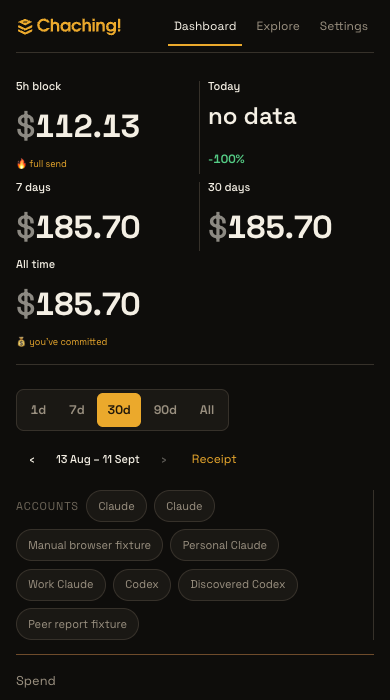
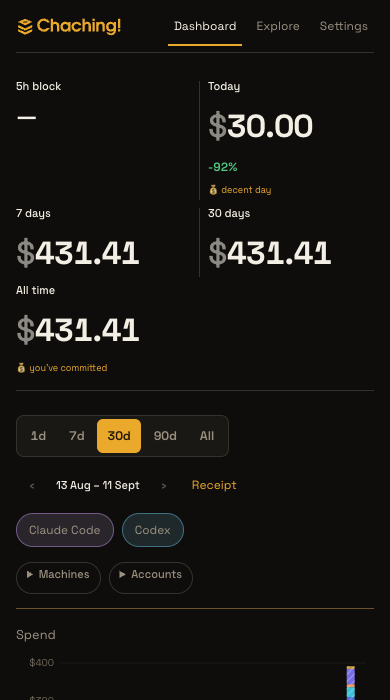
Compact scope controls and finalize the dashboard review inventory

diff --git a/src/lib/components/DataSettings.svelte b/src/lib/components/DataSettings.svelte
@@ -1,29 +1,7 @@
 <script lang="ts">
 	import type { RollupSnapshot } from '$lib/types';
 	import { fmtDay, int } from '$lib/format';
-	import { isCalendarDay } from '$lib/core/view-model';
-	import Button from './ds/Button.svelte';
-
-	let { snapshot, cutoverTs = null, onSave }: {
-		snapshot: RollupSnapshot; cutoverTs: number | null;
-		onSave: (value: number | null) => Promise<void>;
-	} = $props();
-	let date = $state('');
-	let saving = $state(false);
-	let error = $state('');
-	let saved = $state(false);
-	$effect(() => { date = cutoverTs === null ? '' : new Date(cutoverTs).toISOString().slice(0, 10); });
-
-	async function save(event: SubmitEvent) {
-		event.preventDefault();
-		if (date && !isCalendarDay(date)) { error = 'Enter a valid date.'; return; }
-		saving = true;
-		error = '';
-		saved = false;
-		try { await onSave(date ? Date.parse(date + 'T00:00:00Z') : null); saved = true; }
-		catch (cause) { error = cause instanceof Error ? cause.message : 'Could not save the cutover date. Try again.'; }
-		finally { saving = false; }
-	}
+	let { snapshot }: { snapshot: RollupSnapshot } = $props();
 </script>
 
 <section aria-labelledby="data-heading">
@@ -36,25 +14,14 @@
 	</dl>
 	<p>Costs are estimated from token counts and model prices. Claude reasoning tokens are included in output.</p>
 	{#if snapshot.unknownPriceModels.length}<p class="warning">Unpriced models, excluded from cost: {snapshot.unknownPriceModels.join(', ')}</p>{/if}
-	<form onsubmit={save} aria-label="Work/personal cutover">
-		<label for="cutover">Work/personal cutover</label>
-		<small>Optional. Leave blank to clear.</small>
-		<div class="edit"><input id="cutover" type="date" bind:value={date} oninput={() => { saved = false; }} disabled={saving}/><Button type="submit" variant="secondary" disabled={saving}>{saving ? 'Saving…' : 'Save cutover'}</Button></div>
-		{#if error}<p role="alert">{error}</p>{/if}
-		{#if saved}<p role="status">Saved</p>{/if}
-	</form>
+
 </section>
 
 <style>
 	section {margin:20px 0;padding:20px;border:1px solid var(--border);border-radius:var(--radius);background:var(--surface-1)}
 	h3 {margin:0 0 16px;font-size:16px}
 	dl {display:grid;grid-template-columns:repeat(auto-fit,minmax(140px,1fr));gap:16px;margin:0}
-	dt,small,p {color:var(--text-muted);font-size:12px}
+	dt,p {color:var(--text-muted);font-size:12px}
 	dd {margin:5px 0 0;font-variant-numeric:tabular-nums}
 	.warning {color:var(--warn);overflow-wrap:anywhere}
-	form {margin-top:20px;display:grid;gap:8px}
-	.edit {display:flex;gap:8px;flex-wrap:wrap}
-	input {min-width:0;max-width:100%;padding:8px;color:var(--text);background:var(--surface-2);border:1px solid var(--border);border-radius:var(--radius-sm);font:inherit;color-scheme:dark}
-	input:focus-visible {outline:2px solid var(--accent);outline-offset:2px}
-	[role=alert] {color:var(--bad)}
 </style>

diff --git a/src/lib/components/PoolFilters.svelte b/src/lib/components/PoolFilters.svelte
@@ -25,8 +25,9 @@
 {#if machines.length > 1 || accounts.length > 1}
 	<div class="pool-filters" aria-label="Pool filters">
 		{#if machines.length > 1}
-			<div class="filter-group" aria-label="Machine filter">
-				<span class="filter-label">machines</span>
+			<details name="scope-filters">
+				<summary>Machines{machineFilter.size ? ` · ${machineFilter.size}` : ''}</summary>
+				<div class="filter-group" aria-label="Machine filter">
 				{#each machines as machine (machine.id)}
 					<button
 						type="button"
@@ -37,12 +38,14 @@
 						{machine.name}
 					</button>
 				{/each}
-			</div>
+				</div>
+			</details>
 		{/if}
 
 		{#if accounts.length > 1}
-			<div class="filter-group" aria-label="Account filter">
-				<span class="filter-label">accounts</span>
+			<details name="scope-filters">
+				<summary>Accounts{accountFilter.size ? ` · ${accountFilter.size}` : ''}</summary>
+				<div class="filter-group" aria-label="Account filter">
 				{#each accounts as subscription (subscription.id)}
 					<button
 						type="button"
@@ -53,7 +56,8 @@
 						{subscription.name}
 					</button>
 				{/each}
-			</div>
+				</div>
+			</details>
 		{/if}
 
 		{#if machineFilter.size > 0 || accountFilter.size > 0}
@@ -63,28 +67,11 @@
 {/if}
 
 <style>
-	.pool-filters,
-	.filter-group {
-		display: flex;
-		align-items: center;
-		flex-wrap: wrap;
-		gap: 0.45rem;
-	}
-	.pool-filters {
-		flex-basis: 100%;
-		padding-top: 0.2rem;
-	}
-	.filter-group {
-		padding-right: 0.4rem;
-		border-right: 1px solid var(--border);
-	}
-	.filter-label {
-		color: var(--text-dim);
-		font-family: var(--font-sans);
-		font-size: var(--text-2xs);
-		text-transform: uppercase;
-		letter-spacing: var(--tracking-caps);
-	}
+	.pool-filters {position:relative;display:flex;align-items:center;flex-wrap:wrap;gap:8px;flex-basis:100%;padding-top:3px}
+	summary {cursor:pointer;min-height:32px;padding:6px 10px;border:1px solid var(--border);border-radius:var(--radius-pill);font:var(--type-label);color:var(--text-muted)}
+	summary:focus-visible {outline:2px solid var(--accent);outline-offset:2px}
+	.filter-group {position:absolute;top:100%;left:0;z-index:20;width:min(100%,380px);max-height:240px;overflow:auto;padding:8px;background:var(--surface-1);border:1px solid var(--border);border-radius:var(--radius);box-shadow:var(--shadow);display:flex;flex-direction:column;gap:4px}
+	.filter-group button {text-align:left;flex-shrink:0}
 	button {
 		min-height: 32px;
 		border: 1px solid var(--border);

diff --git a/src/routes/+page.svelte b/src/routes/+page.svelte
@@ -204,13 +204,7 @@
 	);
 
 	let feeSaving = $state(false);
-	async function saveCutover(cutoverTs: number | null) {
-		const res = await fetch(resolve('/api/config'), {
-			method: 'POST', headers: { 'content-type': 'application/json' }, body: JSON.stringify({ cutoverTs })
-		});
-		if (!res.ok) throw new Error(`Could not save the cutover date (${res.status}). Try again.`);
-		config = await res.json();
-	}
+
 	async function onTierChange(id: string, name: string, tier: string, monthlyUsd: number) {
 		feeSaving = true;
 		try {
@@ -403,7 +397,7 @@
 				</section>
 				<SyncPanel status={syncStatus} onAction={onSyncAction}/>
 				{#if config}
-					<DataSettings snapshot={snap} cutoverTs={config.cutoverTs} onSave={saveCutover}/>
+					<DataSettings snapshot={snap}/>
 					<section class="plan-settings" aria-label="Plans and fees">
 						<h3>Plans and fees</h3>
 						{#each config.accounts as account (account.id)}

diff --git a/src/lib/components/PoolFilters.test.ts b/src/lib/components/PoolFilters.test.ts
@@ -10,7 +10,7 @@ describe('PoolFilters', () => {
 		const onMachineToggle = vi.fn();
 		const onAccountToggle = vi.fn();
 		const onClear = vi.fn();
-		const { getByRole } = render(PoolFilters, {
+		const { getByRole, getByText } = render(PoolFilters, {
 			machines: [
 				{ id: 'kinto', name: 'kinto', hostname: 'kinto', lastSeenAt: null },
 				{ id: 'nimbus', name: 'nimbus', hostname: 'nimbus', lastSeenAt: null }
@@ -40,7 +40,9 @@ describe('PoolFilters', () => {
 			onClear
 		});
 
+		await fireEvent.click(getByText('Machines · 1'));
 		await fireEvent.click(getByRole('button', { name: 'nimbus' }));
+		await fireEvent.click(getByText('Accounts'));
 		await fireEvent.click(getByRole('button', { name: 'Personal Claude' }));
 		await fireEvent.click(getByRole('button', { name: /clear pool filters/i }));
 

diff --git a/src/routes/page.test.ts b/src/routes/page.test.ts
@@ -638,8 +638,9 @@ it('offers Account filtering without a sync pool', async () => {
 	syncStatusToReturn = { enabled: false, machines: [], accounts: ['claude', 'codex'].map(id => ({
 		id, provider: id, name: `Local ${id}`, account: '', tier: 'custom', monthlyUsd: 20
 	})), mappings: [], providerQuotas: [] };
-	const { getByRole } = render(Page);
+	const { getByRole, container } = render(Page);
 	await flush();
+	await fireEvent.click(container.querySelector('summary')!);
 	await fireEvent.click(getByRole('button', { name: 'Local codex' }));
 	expect(getByRole('button', { name: 'Local codex' }).getAttribute('aria-pressed')).toBe('true');
 	expect(getByRole('link', { name: /shareable receipt/ }).getAttribute('href')).toContain('account=codex');

diff --git a/docs/dashboard/review.md b/docs/dashboard/review.md
@@ -12,20 +12,39 @@ The dashboard puts five-hour, today, seven-day, thirty-day and all-time figures 
 
 ## Verification
 
-After the fee, preference and date-navigation fixes, `npm run check` reports zero errors and warnings, `npm run build` builds web and CLI, and `npm test` passes 1,126 tests across 99 files. PostgreSQL integration tests ran against a disposable PostgreSQL 15 instance using `CHACHING_TEST_DATABASE_URL`; none were skipped. This repository still uses its existing npm package layout, so the plan's future pnpm workspace commands do not apply yet.
+After the fee, preference and date-navigation fixes, `npm run check` reports zero errors and warnings, `npm run build` builds web and CLI, and `npm test` passes 1,125 tests across 98 files. PostgreSQL integration tests ran against a disposable PostgreSQL 15 instance using `CHACHING_TEST_DATABASE_URL`; none were skipped. This repository still uses its existing npm package layout, so the plan's future pnpm workspace commands do not apply yet.
 
 Coverage includes populated schema-3 migration, rerun/concurrent migration and rollback, unchanged aggregate totals, old-client schema downgrade rejection, nullable/explicit fees, shared Account deduplication, private identity handling, interrupted manual creation retry, legacy CLI/API inputs, date-window and report parity, filters, recent sessions, quota observations, settings writes and motion preferences.
 
-Browser evidence confirms no horizontal overflow at all three screenshot sizes; Explore searches a project/session among 140 projects, opens detail and closes it with Escape; animated totals settle to the dashboard amount. Saved screenshots capture the production app, not the throwaway prototype. Appearance and independent motion preferences survive reload; quota view switches and reload preserve dates. Backward navigation stops at the first window containing history. Native session detail keeps focus inside and restores it to the opening session button on close at narrow and desktop sizes. Table sorting/search runs without browser warnings. Period detail and its prior comparison apply the same provider/model/machine/Account filters as the chart; the model-filtered browser journey matches its bar and receipt scope. Synthetic peer filtering verifies $30 today against $20 yesterday (+50%, red), machine/Account intersections, empty intersections and receipt scope. Mixed-coverage weeks retain their bar with hatching and accurate gap wording. The complete browser journey audit is still in progress.
+Browser evidence confirms no horizontal overflow at all three screenshot sizes; Explore searches a project/session among 140 projects, opens detail and closes it with Escape; animated totals settle to the dashboard amount. Saved screenshots capture the production app, not the throwaway prototype. Appearance and independent motion preferences survive reload; quota view switches and reload preserve dates. Backward navigation stops at the first window containing history. Native session detail keeps focus inside and restores it to the opening session button on close at narrow and desktop sizes. Table sorting/search runs without browser warnings. Period detail and its prior comparison apply the same provider/model/machine/Account filters as the chart; the model-filtered browser journey matches its bar and receipt scope. Synthetic peer filtering verifies $30 today against $20 yesterday (+50%, red), machine/Account intersections, empty intersections and receipt scope. Mixed-coverage weeks retain their bar with hatching and accurate gap wording. The browser journeys below are verified against the production build with isolated synthetic data.
 
-## Open work and decisions
+## Remaining decisions and limitations
 
 - [Account attribution #28](https://github.com/rbutera/chaching/issues/28) remains open. There is no invented historical login split. Current explicit mappings can label usage at read time. When several Accounts share unsplit usage, the value card can retain a combined known-set value while individual values remain unavailable. Selecting the complete known contributing Account set now retains the combined chart, session and receipt totals. A partial selection excludes unsplit usage from chart/export totals while the value card marks that allocation unavailable; deciding the partial-attribution presentation remains part of #28.
 - [Codex routing #27](https://github.com/rbutera/chaching/issues/27) remains open. Missing quota observations remain unavailable. This branch does not alter routing or infer that missing metering means no paid Account.
 - [Live pool rollout #30](https://github.com/rbutera/chaching/issues/30) remains open. Stop and upgrade old clients together; old binaries must not edit upgraded config or operate against the upgraded Account schema. No live migration has been performed.
 - Local-only Account filters now use the canonical local roster and the same single-mapping attribution as pooled views. Snapshot and live deltas retain Account IDs; selected Account fees follow the same scope. Browser checks cover mapped spend, an unused Account with an unknown fee and persisted selection. Offline browser verification preserves selected pool IDs and restores their names on reconnect. While unreachable, labels fall back to IDs and the fee card says Pool unavailable; a cold offline process does not invent remote attribution or substitute local IDs/fees.
 - Unresolved legacy matches now suppress affected pooled dashboard fees, matching the receipt/stats report path. Tests preserve unaffected provider fees and restore totals after resolution.
-- Additional real browser checks cover pool offline/recovery, invalid join, successful join/create/leave, filter cleanup, retained local history, OS reduced motion and rapid filter changes with animations enabled. Keyboard calendar navigation (arrows, Home/End and Enter to pin) now also verifies provider/model scoped calendar amounts and matching receipt scope. Packaged provider add/disable/enable commands persist settings for all five providers; invalid provider input leaves config unchanged, and environment credentials are not written to config. No live provider credential or API was used. The final feature inventory audit remains open.
+- Additional real browser checks cover pool offline/recovery, invalid join, successful join/create/leave, filter cleanup, retained local history, OS reduced motion and rapid filter changes with animations enabled. Keyboard calendar navigation (arrows, Home/End and Enter to pin) now also verifies provider/model scoped calendar amounts and matching receipt scope. Packaged provider add/disable/enable commands persist settings for all five providers; invalid provider input leaves config unchanged, and environment credentials are not written to config. No live provider credential or API was used. The baseline feature inventory is accounted for below.
 - The accepted plan references later workspace/CI restructuring in the 2.0 map. This branch keeps the existing production layout; it does not implement unrelated monorepo work.
 
-The approved web what-if calculator removal is intentional. CLI/API what-if remain. Existing work/personal cutover configuration is retained to avoid an unapproved functionality loss. No merge, deploy, publish or live-data migration is part of this change.
+The approved web what-if calculator removal is intentional. CLI/API what-if remain. The excluded web work/personal cutover form is absent; existing configuration/CLI compatibility remains. No merge, deploy, publish or live-data migration is part of this change.
+
+## Production feature inventory
+
+Compared with production commit `6221826`, the existing route's reachable regions are retained or relocated as follows. The evidence is the current route composition and the passing named tests, supplemented by the browser journeys above.
+
+| Production behavior | Final destination and verification |
+| --- | --- |
+| Periods, current/pinned spend, comparisons, date navigation and model/provider filters | Dashboard headlines and shared CommandBar; Explore hero and calendar. `view-model.test.ts` and `page.test.ts` cover quiet days, midnight, equal prior windows, baseline suppression, intersections and pinning. Browser date input and keyboard Home/End/arrows/Enter retain receipt scope. |
+| Machine and Account scope | Shared compact native filter disclosures. Local and pooled snapshots/live deltas carry attribution. Complete known Account sets retain combined spend; partial attribution remains the decision described above. Browser populated/empty selections, disclosure keyboard access and offline selection retention verified. |
+| Cache, token classes, request counts, averages and model mix | Dashboard CachePanel and Explore StatRowRegion/ByModelRegion. Existing derivation assertions remain; model/provider-scoped calendar and detail totals now match their scope. |
+| Lifetime totals, recent blocks and five-hour spend | Explore LifetimeRegion and ByModelRegion retain these; Dashboard additionally shows the local active five-hour block independently of filters. No active block displays a dash. |
+| Projects and sessions | Explore bounded TanStack tables retain search, sorting, virtualization and detail. Dashboard shows five recent sessions; View all preserves scope and restores recency sorting. Tested with 140 projects and 12 models, live updates and cross-day sessions. Native detail traps/restores keyboard focus. |
+| Receipt and machine-readable reporting | Dashboard/Explore links preserve dates and all filters. CLI text/PNG/JSON receipts and stats use shared scope/fee derivations; receipt/stats and negative/unknown fee cases pass. Whole-session versus clipped day totals remain explicit. |
+| Fees, provider setup, sync and data controls | Settings uses the real config/sync endpoints, including saved fees, failure feedback, manual Accounts and create/join/leave. Existing provider/init CLI paths remain; all five provider add/disable/enable commands were exercised in a disposable config. Existing cutover config/CLI compatibility remains; the excluded web form is absent. |
+| Loading, coverage, disconnected and empty states | Existing feed and coverage paths retained. Mixed-coverage bars are hatched with gap wording; missing quotas and offline fees stay unavailable. Browser failure/recovery and empty intersections verified. |
+| Typography, personality and motion | Space Grotesk UI with tabular amounts; monospace restricted to code. Existing remarks and JoyController retained. OS reduced motion, no-art, independent preferences, rapid changes and settled amounts verified. |
+| Intentional removals | Web WhatifRegion and its exclusive test removed. CLI/API what-if remain. Unused SummaryRail and HonestyFooterRegion removed after caller checks; no baseline reachable route was lost. |
+
+Final screenshots show the current implementation at all three required sizes. Machine/Account choices use bounded native disclosures so their roster size does not determine the command-bar height. Package inspection includes web and CLI output and excludes prototype/audit artifacts. This draft is ready for implementation review; the unresolved Account attribution, routing and coordinated rollout decisions above remain release blockers, not invented implementations.
